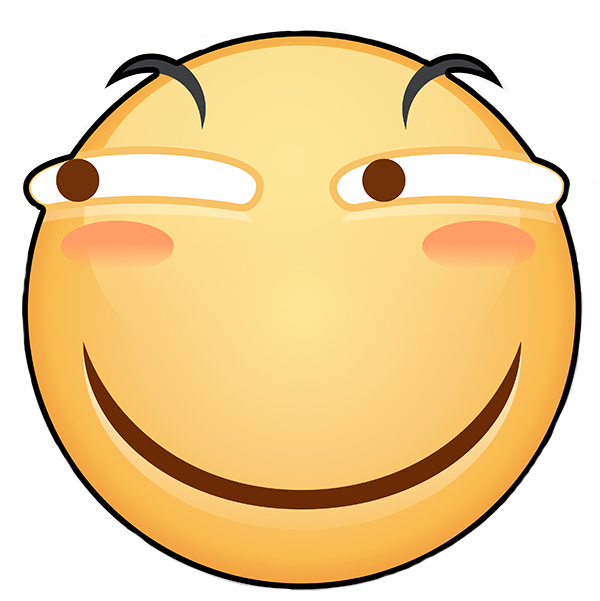
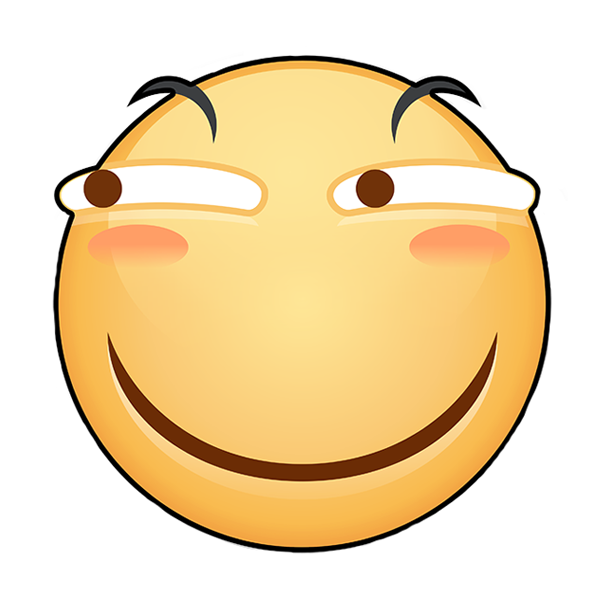
Failure Menu added & ready to merge

diff --git a/proj.win32/BattleField.cpp b/proj.win32/BattleField.cpp
@@ -17,7 +17,10 @@ Scene * BattleField::createScene(int ballID)
 	layerBattleField->_BC = layerBC;
 	layerBattleField->_ESC = layerESC;
 	layerBattleField->addChild(layerBC,2);
-	scene->addChild(layerESC,2);
+	auto layerFail = FailMenu::create();
+	layerBattleField->_fail = layerFail;
+	scene->addChild(layerESC,2,0);
+	scene->addChild(layerFail, 3);
 	return scene;
 }
 void BattleField::setCameraFollow(float nodeX,float nodeY)
@@ -36,7 +39,6 @@ void BattleField::update(float del)
 	int nodeCount=0;
 	for (auto target : allballs)
 	{
-
 		Balls* target_b = dynamic_cast<Balls*>(target);
 		if (target_b != nullptr&&target_b->getID() != 0)
 		{
@@ -65,7 +67,8 @@ void BattleField::update(float del)
 	}
 	else
 	{
-
+		k_listener->setEnabled(false);
+		_fail->setVisible(true);
 	}
 	_keycode = cocos2d::EventKeyboard::KeyCode::KEY_NONE;
 
@@ -111,6 +114,31 @@ bool ESCMenu::init()              //The menu shown when pressing ESC
 	buttonResume->addClickEventListener(ui::Widget::ccWidgetClickCallback(CC_CALLBACK_0(ESCMenu::resumeToGame, this)));
 	this->addChild(buttonQuit);
 	this->addChild(buttonResume);
+	this->setVisible(false);
+	return true;
+}
+void FailMenu::failToSelectMenu()
+{
+	dynamic_cast<ESCMenu *>(this->getParent()->getChildByTag(0))->quitToMainMenu();
+}
+bool FailMenu::init()
+{
+	if (!Layer::init())
+	{
+		return false;
+	}
+	auto visibleSize = Director::getInstance()->getVisibleSize();
+	Vec2 originPos = Director::getInstance()->getVisibleOrigin();
+	auto failImg = Sprite::create("fail.png");
+	failImg->setPosition(Vec2(visibleSize.width / 2 + originPos.x, visibleSize.height / 2 + originPos.y));
+	this->addChild(failImg);
+	keyboardListener= EventListenerKeyboard::create();
+	keyboardListener->onKeyPressed = [=](EventKeyboard::KeyCode keycode, Event* event)
+	{
+		failToSelectMenu();
+	};
+	_eventDispatcher->addEventListenerWithSceneGraphPriority(keyboardListener,this);
+	keyboardListener->setEnabled(false);
 	this->setVisible(false);
 	return true;
 }

diff --git a/proj.win32/BattleField.h b/proj.win32/BattleField.h
@@ -11,6 +11,15 @@ public:
 	void resumeToGame();
 	CREATE_FUNC(ESCMenu);
 };
+class FailMenu :public cocos2d::Layer
+{
+public:
+	virtual bool init();
+	void failToSelectMenu();
+	void setCallBackOn();
+	cocos2d::EventListenerKeyboard *keyboardListener;
+	CREATE_FUNC(FailMenu);
+};
 class Combat :public cocos2d::Layer                   //class Combat is where to put all the balls and food
 {
 public:
@@ -30,6 +39,7 @@ public:
 	cocos2d::TMXTiledMap * _BG;
 	Combat * _BC;
 	ESCMenu * _ESC;
+	FailMenu * _fail;
 	static cocos2d::Scene  *createScene(int ballID);
 	virtual bool init();
 	void setCameraFollow(float nodeX,float nodeY);

diff --git a/proj.win32/MainMenu.cpp b/proj.win32/MainMenu.cpp
@@ -70,7 +70,7 @@ bool MainBG::init()
 	auto backGround = Sprite::create("StartMenu_BG.png");
 	backGround->setPosition(Vec2(visibleSize.width / 2 + originPos.x, visibleSize.height / 2 + originPos.y));
 	this->addChild(backGround);
-	Balls* huaJi = Balls::createWithFileName("huaJi.png");
+	Balls* huaJi = Balls::createWithFileName("xibi.png");
 	huaJi->initStatus(1000,1);
 	huaJi->setPosition(Vec2(visibleSize.width / 2 + originPos.x, visibleSize.height / 2 + originPos.y));
 	this->addChild(huaJi, 1, "HJ");

diff --git a/proj.win32/Balls.cpp b/proj.win32/Balls.cpp
@@ -62,7 +62,7 @@ unsigned int Balls::getLevel()
 void Balls::updateRadius()                                          //update the radius and size when level changes
 {
 	this->setScale(sqrt(_level/100) / 10);
-	_radius = sqrt(_level/100) * 260 / 10;
+	_radius = sqrt(_level/100) * 234 / 10;
 }
 void Balls:: addLevel(const int delLevel)                              //after eating other balls,call this
 {

diff --git a/proj.win32/BallSelectMenu.cpp b/proj.win32/BallSelectMenu.cpp
@@ -3,7 +3,7 @@
 #include"MainMenu.h"
 #include"BattleField.h"
 USING_NS_CC;
-cocos2d::Scene *BallSelectMenu::createScene(bool isMP)
+Scene *BallSelectMenu::createScene(bool isMP)
 {
 	auto scene = Scene::create();
 	auto layer_ballSelectMenu = BallSelectMenu::create();
